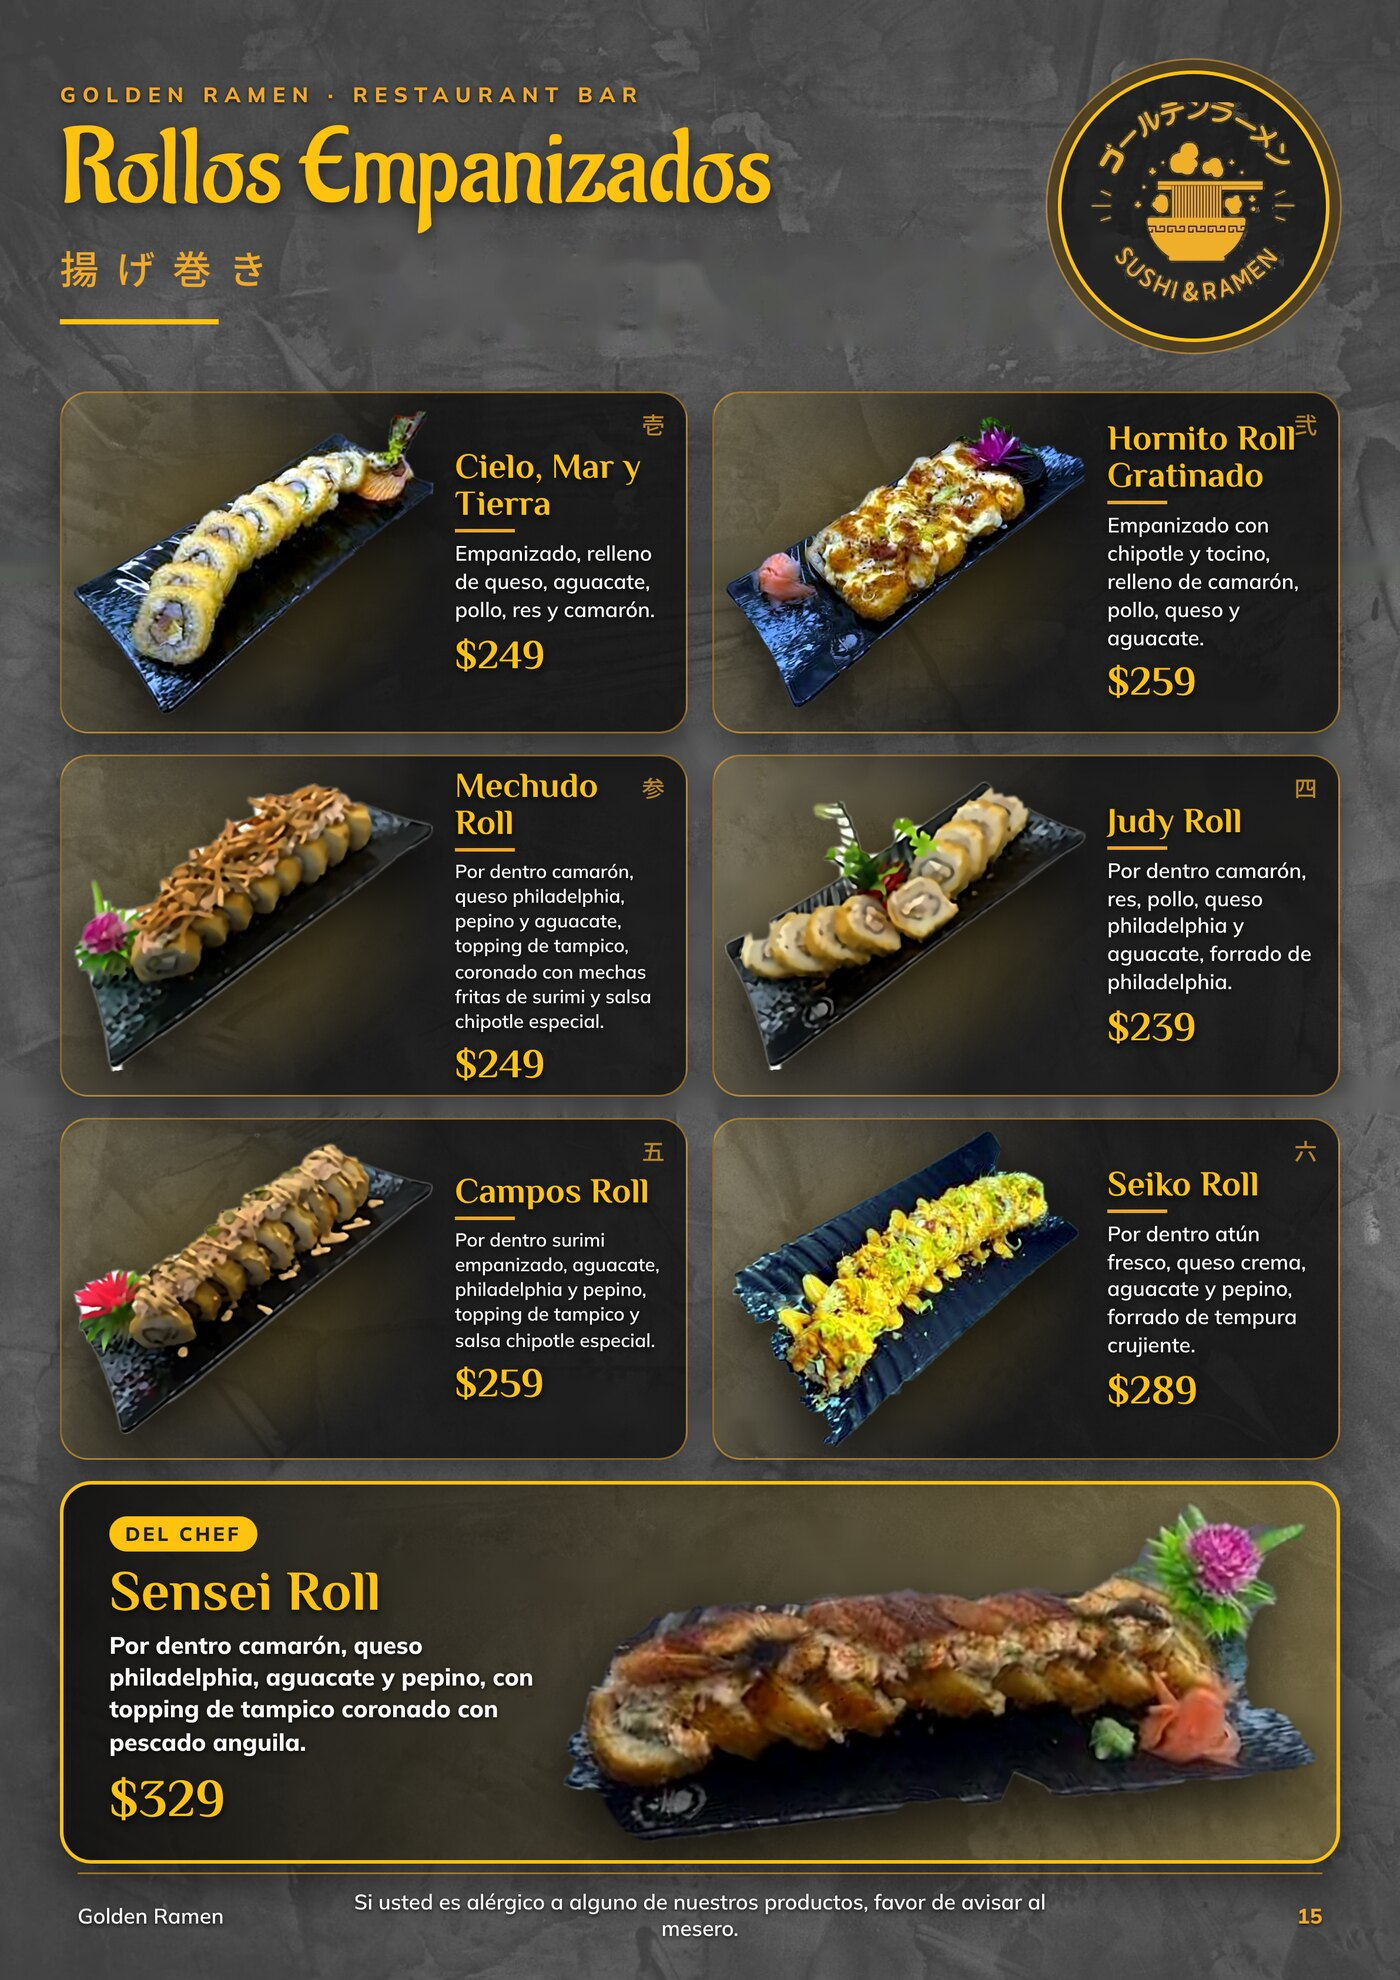
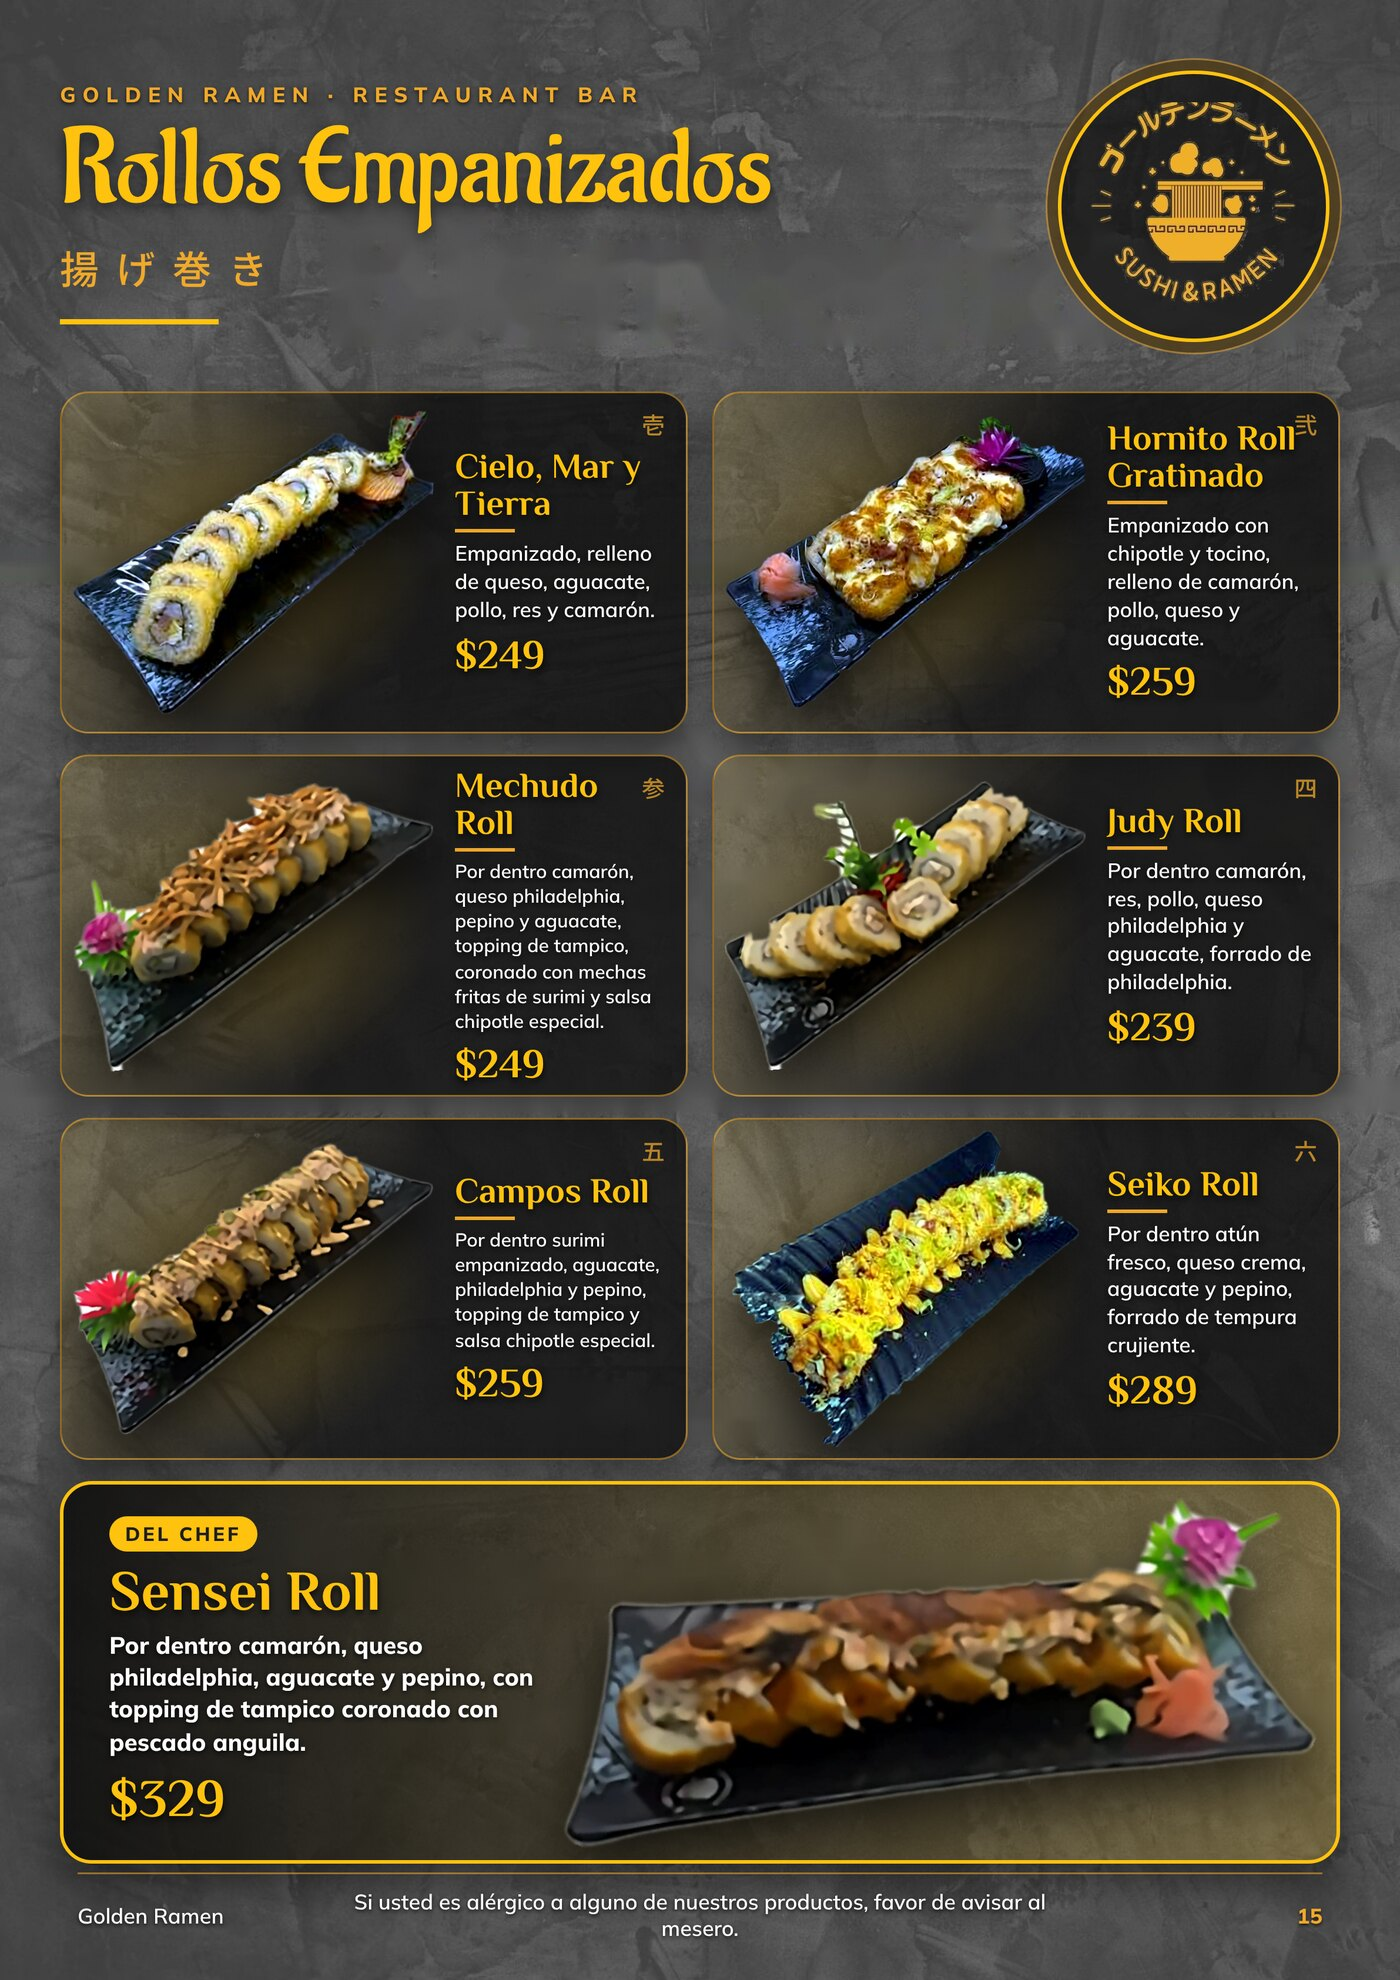
Foto nueva: Sensei Roll
Claude-Session: https://claude.ai/code/session_019koabpyAAMnZPtrZYFtJVk

Changed region(s): [[0.3993, 0.7394, 0.9521, 0.9551]]

diff --git a/index.html b/index.html
@@ -53,10 +53,10 @@ for(let i=1;i<=N;i++){
   const d=document.createElement('div');
   d.className='page'+((i===1||i===N)?' hard':'');
   if(i===1||i===N) d.setAttribute('data-density','hard');
-  d.innerHTML=`<img src="p${pad(i)}.jpg?v=1794817195" alt="Página ${i} del menú Golden Ramen" ${i>4?'loading="lazy"':''}>`;
+  d.innerHTML=`<img src="p${pad(i)}.jpg?v=1794817260" alt="Página ${i} del menú Golden Ramen" ${i>4?'loading="lazy"':''}>`;
   book.appendChild(d);
   const t=document.createElement('button'); t.className='th'; t.setAttribute('aria-label','Ir a la página '+i);
-  t.innerHTML=`<img src="t${pad(i)}.jpg?v=1794817195" alt="">`; t.onclick=()=>pf&&pf.flip(i-1);
+  t.innerHTML=`<img src="t${pad(i)}.jpg?v=1794817260" alt="">`; t.onclick=()=>pf&&pf.flip(i-1);
   thumbs.appendChild(t);
 }
 let pf=null; let lastW=innerWidth; addEventListener('resize',()=>{ if(Math.abs(innerWidth-lastW)>80){ location.reload(); } });
